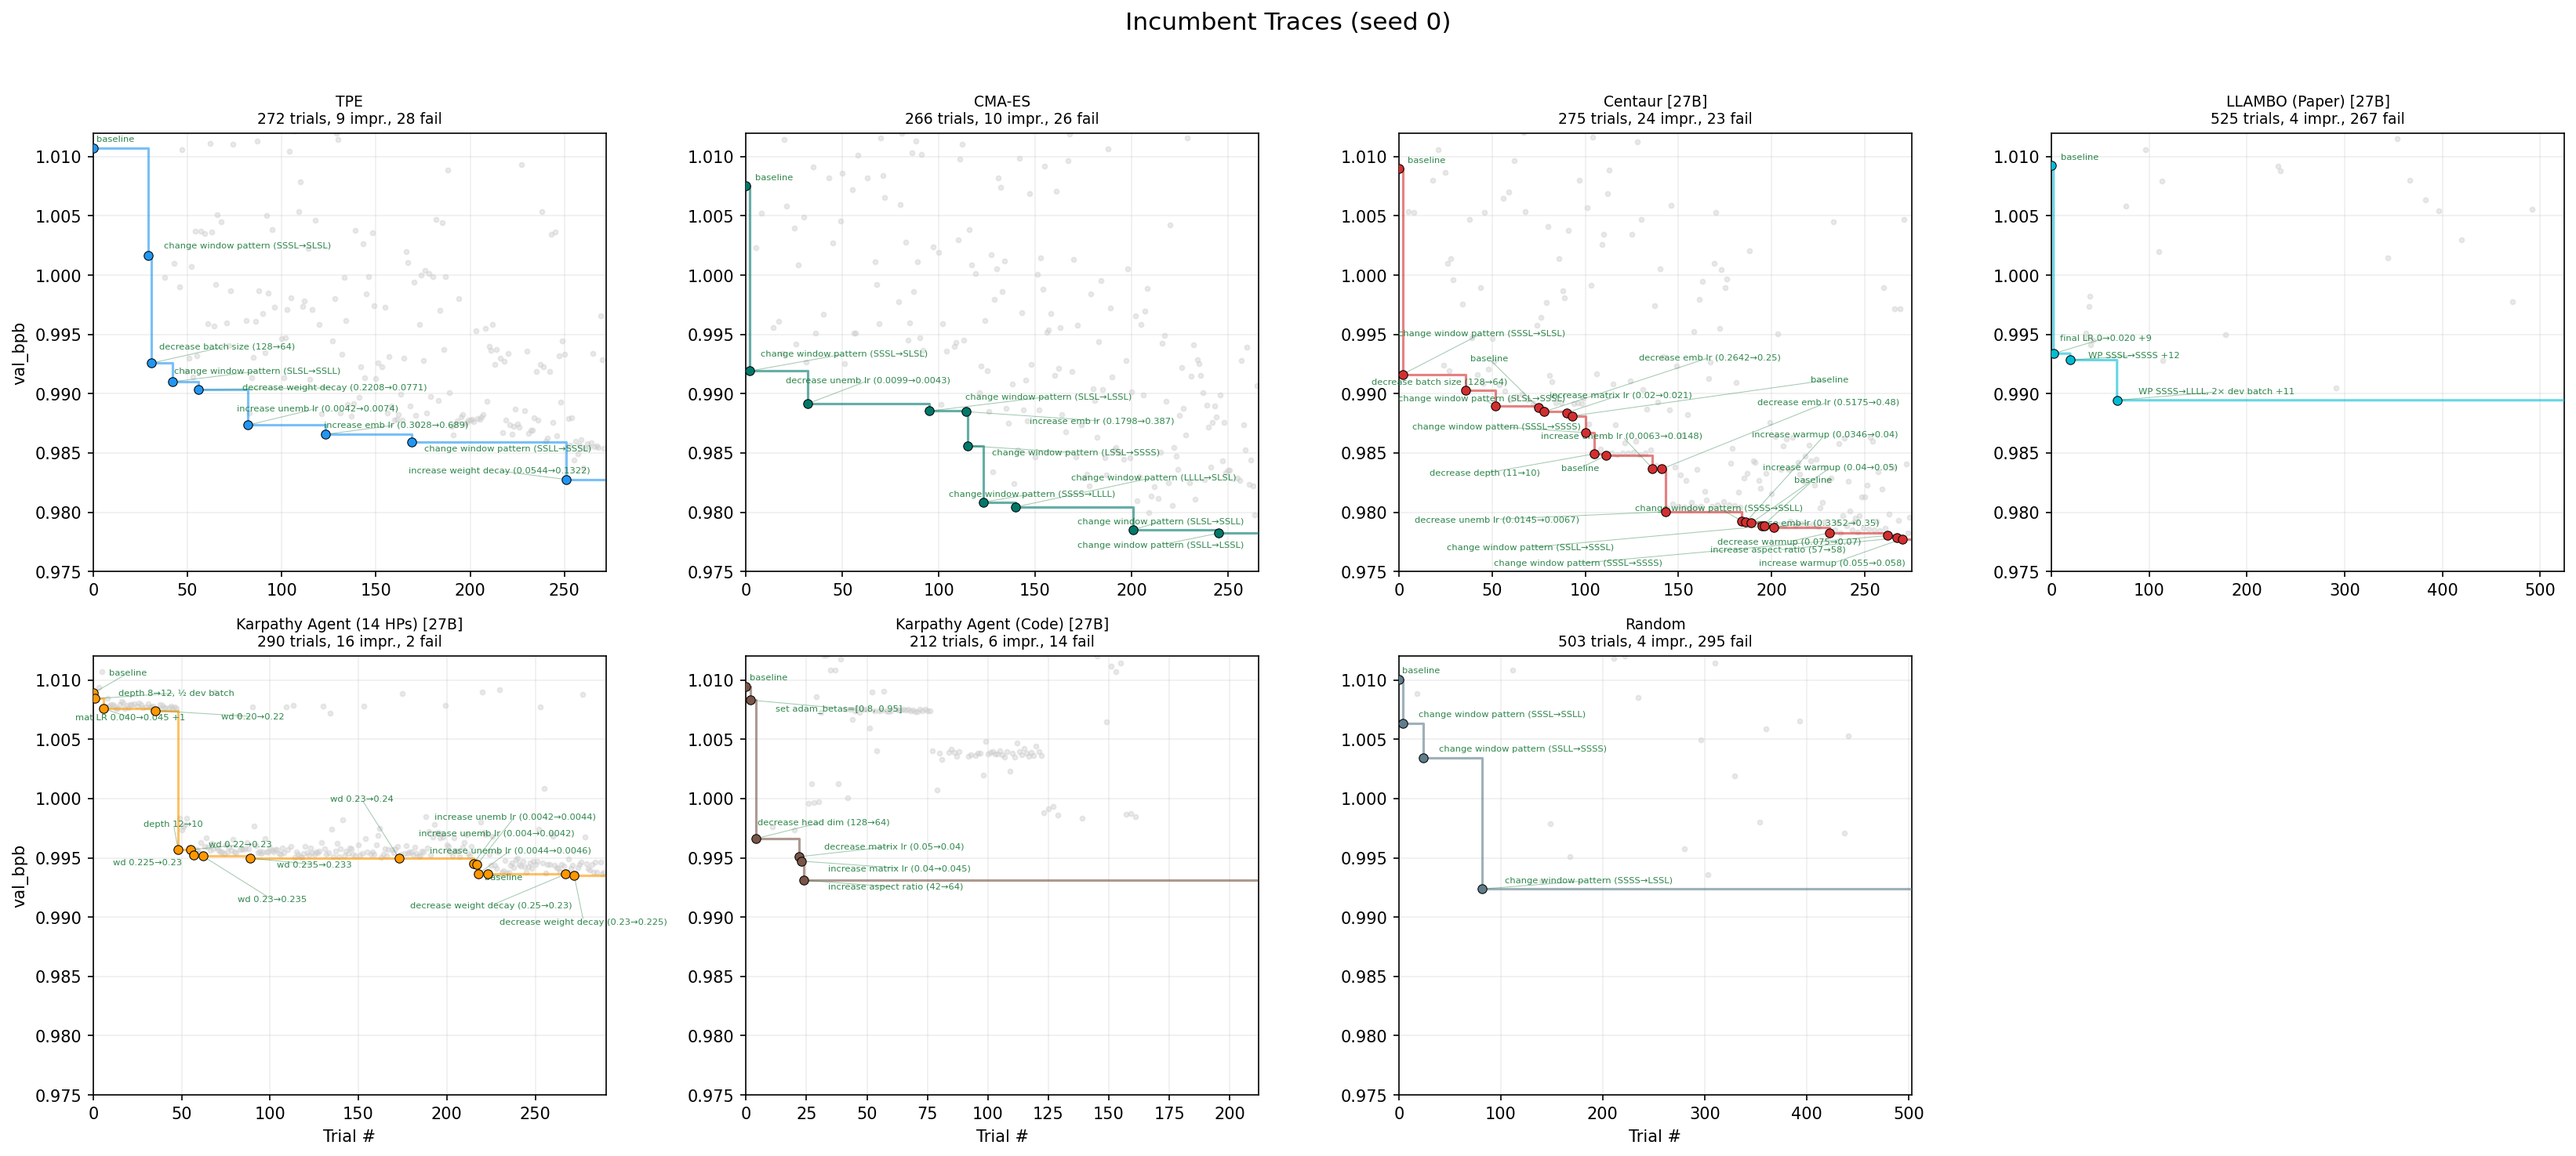
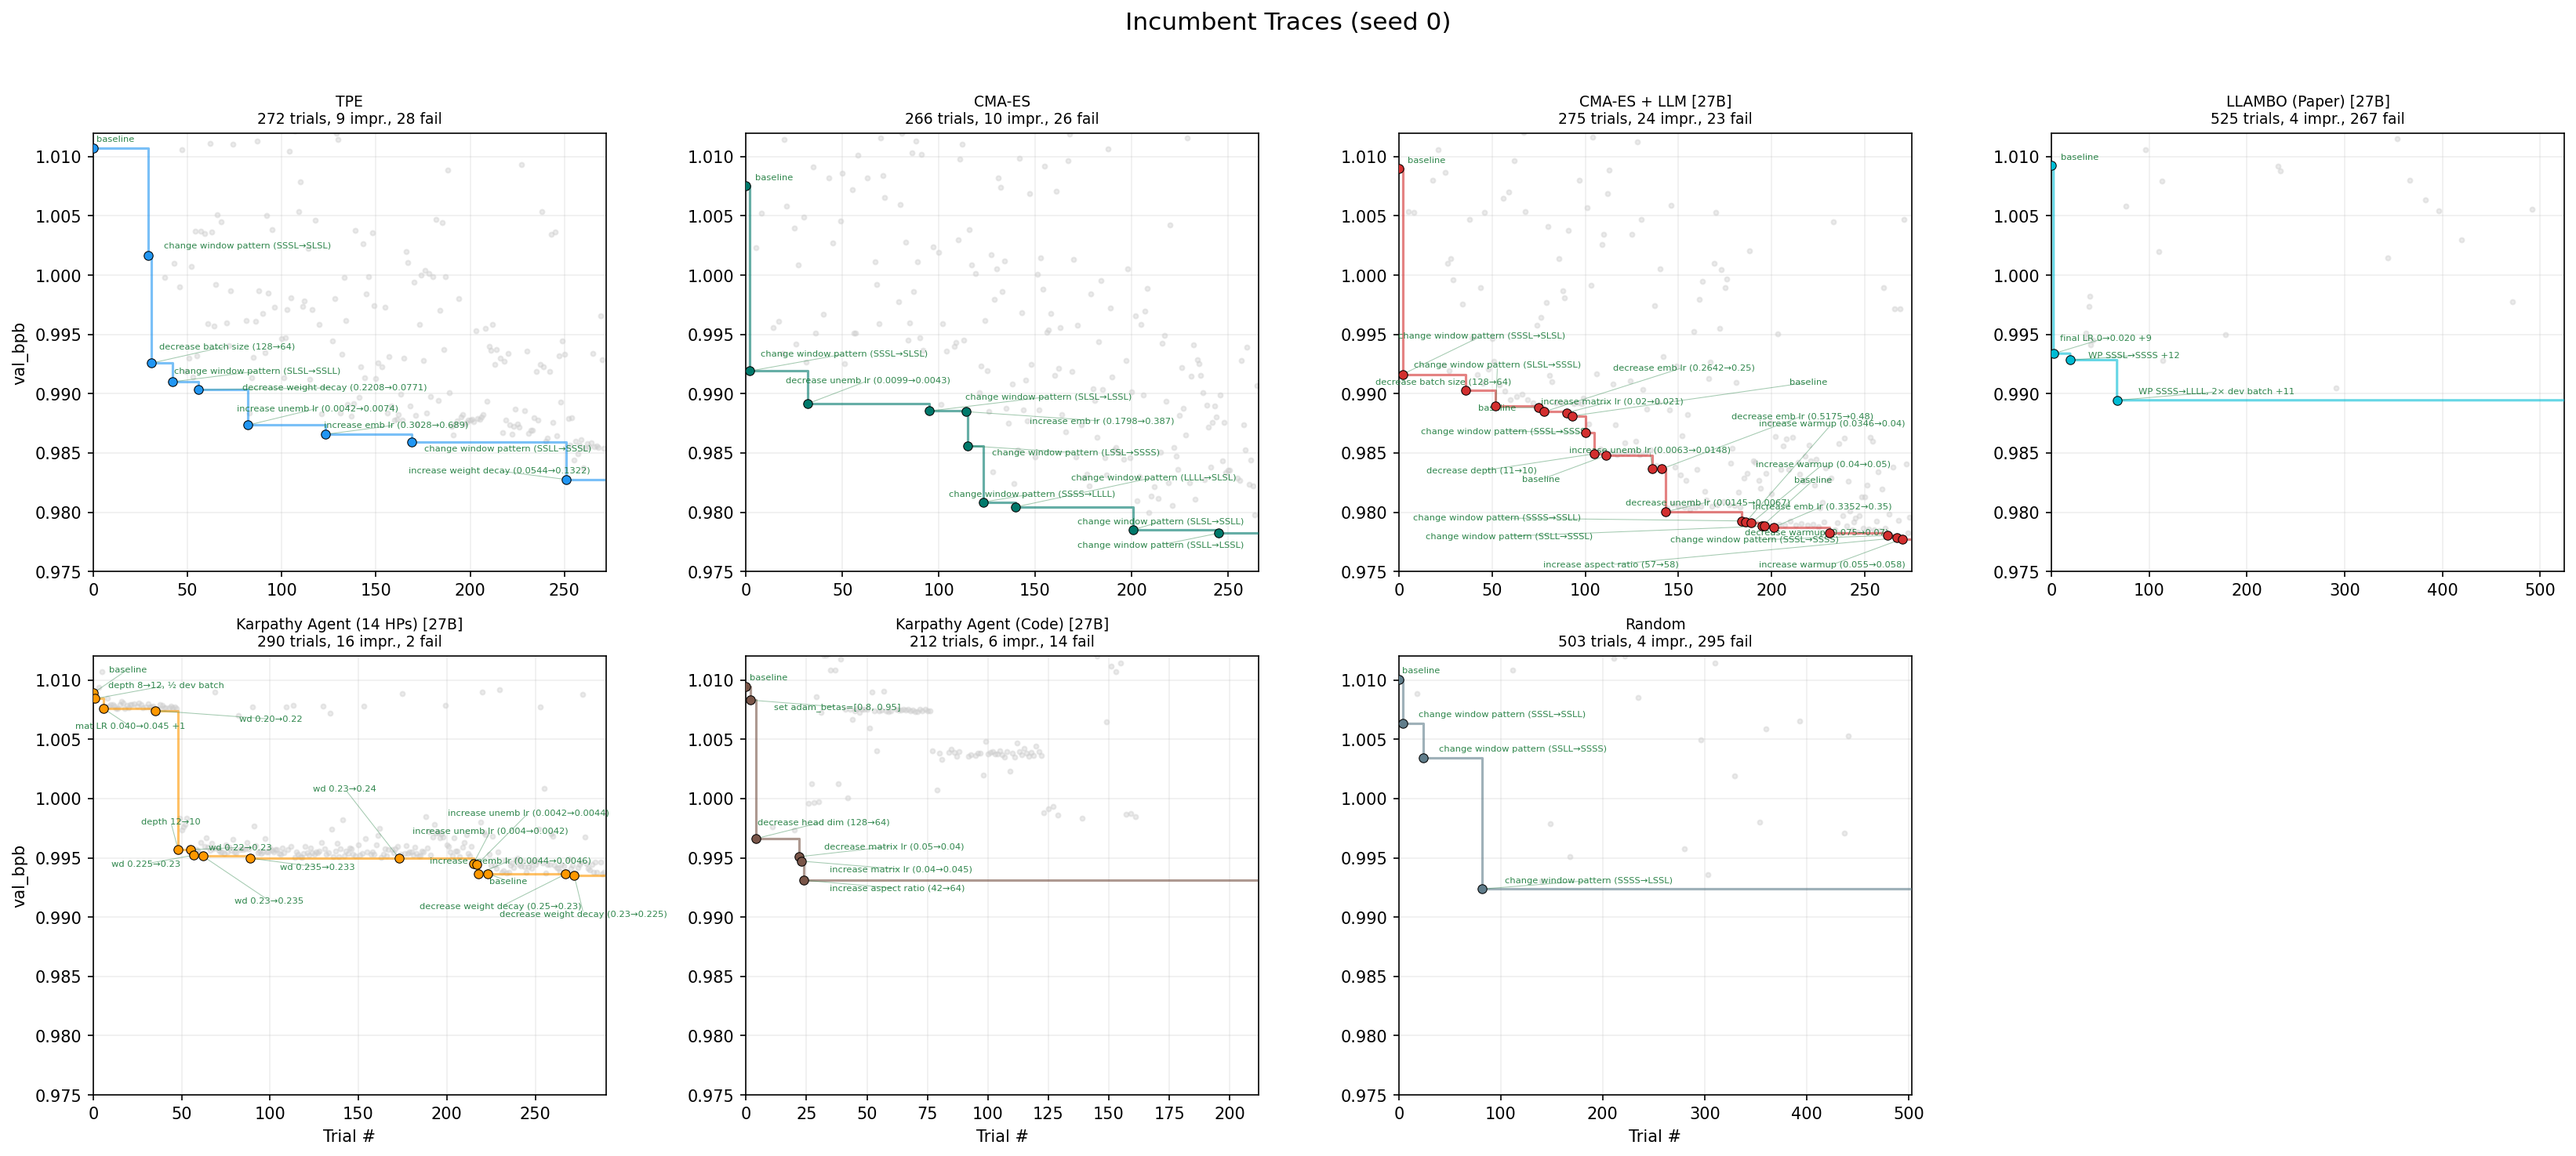
Rename Centaur to CMA-ES + LLM, add HoreKa centaur script

diff --git a/scripts/plot_convergence.py b/scripts/plot_convergence.py
@@ -136,7 +136,7 @@ def plot_exp2_27b(results_dir: Path, output_path: Path):
     backends = {
         "optuna": {"label": "TPE", "color": "#2196F3"},
         "cma_es": {"label": "CMA-ES", "color": "#00796B"},
-        "centaur_Qwen3_5_27B": {"label": "Centaur [27B]", "color": "#D32F2F"},
+        "centaur_Qwen3_5_27B": {"label": "CMA-ES + LLM [27B]", "color": "#D32F2F"},
         "llm_greedy_Qwen3_5_27B_nothink": {"label": "Karpathy Agent (14 HPs) [27B]", "color": "#FF9800"},
         "llambo_Qwen3_5_27B_nothink": {"label": "LLAMBO (Optuna) [27B]", "color": "#9C27B0"},
         "llambo_original_Qwen3_5_27B_nothink": {"label": "LLAMBO (Paper) [27B]", "color": "#00BCD4"},
@@ -155,7 +155,7 @@ def plot_exp2_all(results_dir: Path, output_path: Path):
     backends = {
         "optuna": {"label": "TPE", "color": "#2196F3", "linestyle": "-"},
         "cma_es": {"label": "CMA-ES", "color": "#00796B", "linestyle": "-"},
-        "centaur_Qwen3_5_27B": {"label": "Centaur [27B]", "color": "#D32F2F", "linestyle": "-"},
+        "centaur_Qwen3_5_27B": {"label": "CMA-ES + LLM [27B]", "color": "#D32F2F", "linestyle": "-"},
         "random": {"label": "Random", "color": "#607D8B", "linestyle": "-"},
         "smac": {"label": "SMAC", "color": "#8BC34A", "linestyle": "-"},
         "llm_greedy_Qwen3_5_27B_nothink": {"label": "Karpathy Agent (14 HPs) [27B]", "color": "#FF9800", "linestyle": "-"},
@@ -460,7 +460,7 @@ def plot_progress_combined(results_dir: Path, output_path: Path):
     backends = [
         ("optuna", "TPE", "#2196F3"),
         ("cma_es", "CMA-ES", "#00796B"),
-        ("centaur_Qwen3_5_27B", "Centaur [27B]", "#D32F2F"),
+        ("centaur_Qwen3_5_27B", "CMA-ES + LLM [27B]", "#D32F2F"),
         ("llambo_original_Qwen3_5_27B_nothink", "LLAMBO (Paper) [27B]", "#00BCD4"),
         ("llm_greedy_Qwen3_5_27B_nothink", "Karpathy Agent (14 HPs) [27B]", "#FF9800"),
         ("karpathy_agent_Qwen3_5_27B", "Karpathy Agent (Code) [27B]", "#795548"),

diff --git a/README.md b/README.md
@@ -20,7 +20,7 @@ Karpathy's [autoresearch](https://github.com/karpathy/autoresearch) lets an LLM 
 - **Karpathy Agent (Code):** LLM directly edits `train.py` source code each trial. Can change any constant, not just the 14 extracted HPs ([Karpathy's autoresearch](https://github.com/karpathy/autoresearch)).
 
 **Hybrid (fixed 14-HP search space):**
-- **Centaur:** CMA-ES as *critic* learns from 100% of trials (always refitting its covariance structure). On 30% of trials the LLM acts as *actor*, receiving CMA-ES internal state (mean, sigma, top configs) to make informed suggestions. The remaining 70% CMA-ES serves as the actor. See [centaur.md](centaur.md).
+- **CMA-ES + LLM:** CMA-ES as *critic* learns from 100% of trials (always refitting its covariance structure). On 30% of trials the LLM acts as *actor*, receiving CMA-ES internal state (mean, sigma, top configs) to make informed suggestions. The remaining 70% CMA-ES serves as the actor. See [centaur.md](centaur.md).
 
 All LLM methods use self-hosted Qwen3.5 (0.8B and 27B) via vLLM on the same GPU as training.
 
@@ -34,7 +34,7 @@ Single H200 GPU, 5 min/trial, minimize val_bpb. Search space: 14 HPs auto-extrac
 
 ### All Methods
 
-Convergence curves (mean ± std across available seeds). Includes classical methods (TPE, CMA-ES, Random, SMAC), LLM-based (LLAMBO, Karpathy Agent (14 HPs), Karpathy Agent (Code)), and hybrid (Centaur).
+Convergence curves (mean ± std across available seeds). Includes classical methods (TPE, CMA-ES, Random, SMAC), LLM-based (LLAMBO, Karpathy Agent (14 HPs), Karpathy Agent (Code)), and hybrid (CMA-ES + LLM).
 
 ![All methods convergence](assets/exp2_all_convergence.png)
 
@@ -50,9 +50,9 @@ Grey dots are all trials, colored dots are new bests, staircase is the incumbent
 
 ![Incumbent Traces](assets/exp2_pareto_fronts.png)
 
-### Centaur: CMA-ES Guided LLM Optimization
+### CMA-ES + LLM: CMA-ES Guided LLM Optimization
 
-We introduce **Centaur**, a hybrid backend where CMA-ES acts as *critic* and an LLM acts as *actor*. CMA-ES runs every trial, learning the optimization landscape (covariance structure, convergence direction). On a fraction of trials (30%, after 10 warmup trials), the LLM receives CMA-ES's internal state — distribution mean, step-size sigma, top configs — and uses it alongside transformer domain knowledge to suggest configs. CMA-ES learns from all results, including LLM-suggested ones. See [centaur.md](centaur.md) for the full algorithm and related work comparison.
+We introduce **CMA-ES + LLM**, a hybrid backend where CMA-ES acts as *critic* and an LLM acts as *actor*. CMA-ES runs every trial, learning the optimization landscape (covariance structure, convergence direction). On a fraction of trials (30%, after 10 warmup trials), the LLM receives CMA-ES's internal state — distribution mean, step-size sigma, top configs — and uses it alongside transformer domain knowledge to suggest configs. CMA-ES learns from all results, including LLM-suggested ones. See [centaur.md](centaur.md) for the full algorithm and related work comparison.
 
 ### Search Diversity Analysis
 
@@ -68,7 +68,7 @@ To understand *why* some methods outperform others, we measure how each backend 
 | Method | Seeds | Avg Best | OOM% | Spread | Pairwise | Dist→Default | Step | Cells |
 |--------|-------|----------|------|--------|----------|-------------|------|-------|
 | CMA-ES | 3 | **0.9833** | 16% | 0.138 | 0.697 | 0.889 | 0.561 | 220 |
-| Centaur [27B] | 3 | **0.9821** | 19% | 0.126 | 0.611 | 1.064 | 0.541 | 88 |
+| CMA-ES + LLM [27B] | 3 | **0.9821** | 19% | 0.126 | 0.611 | 1.064 | 0.541 | 88 |
 | TPE | 3 | **0.9840** | 10% | 0.196 | 0.963 | 1.288 | 0.569 | 169 |
 | LLAMBO (Paper) [27B] | 3 | 0.9880 | 48% | 0.255 | 1.272 | 1.127 | 1.210 | 357 |
 | Random | 3 | 0.9898 | 57% | 0.274 | 1.388 | 1.243 | 1.391 | 169 |
@@ -82,7 +82,7 @@ To understand *why* some methods outperform others, we measure how each backend 
 - **Karpathy Agent (14 HPs) has the lowest diversity by all metrics.** Spread 0.020 (14x less than random), only 14 unique grid cells, dist→default 0.249. It makes minimal changes between trials (step 0.059).
 - **LLAMBO (Optuna) has 84% OOM rate** (up to 93% for seed 2), due to random categorical sampling of DEPTH.
 - **LLAMBO (Paper) is the most diverse method with 0% OOM** (spread 0.255, 357 unique cells), yet still underperforms CMA-ES and TPE.
-- **The top 3 methods (CMA-ES, TPE, Centaur) all have 0% OOM and moderate diversity** (spread 0.12–0.20).
+- **The top 3 methods (CMA-ES, TPE, CMA-ES + LLM) all have 0% OOM and moderate diversity** (spread 0.12–0.20).
 - **SMAC has high spread (0.241) but only 36 unique cells.** Its GP surrogate + Expected Improvement acquisition keeps exploring OOM regions despite penalty costs, unlike TPE which directly models feasibility. Even after fixing a status bug (MEMORYOUT instead of SUCCESS), OOM rate remains ~60%.
 - **Performance correlates more with OOM rate than with diversity.** All 0%-OOM methods outperform all high-OOM methods, suggesting that on this task, learning to avoid infeasible regions may matter more than LLM domain knowledge or search diversity.
 
